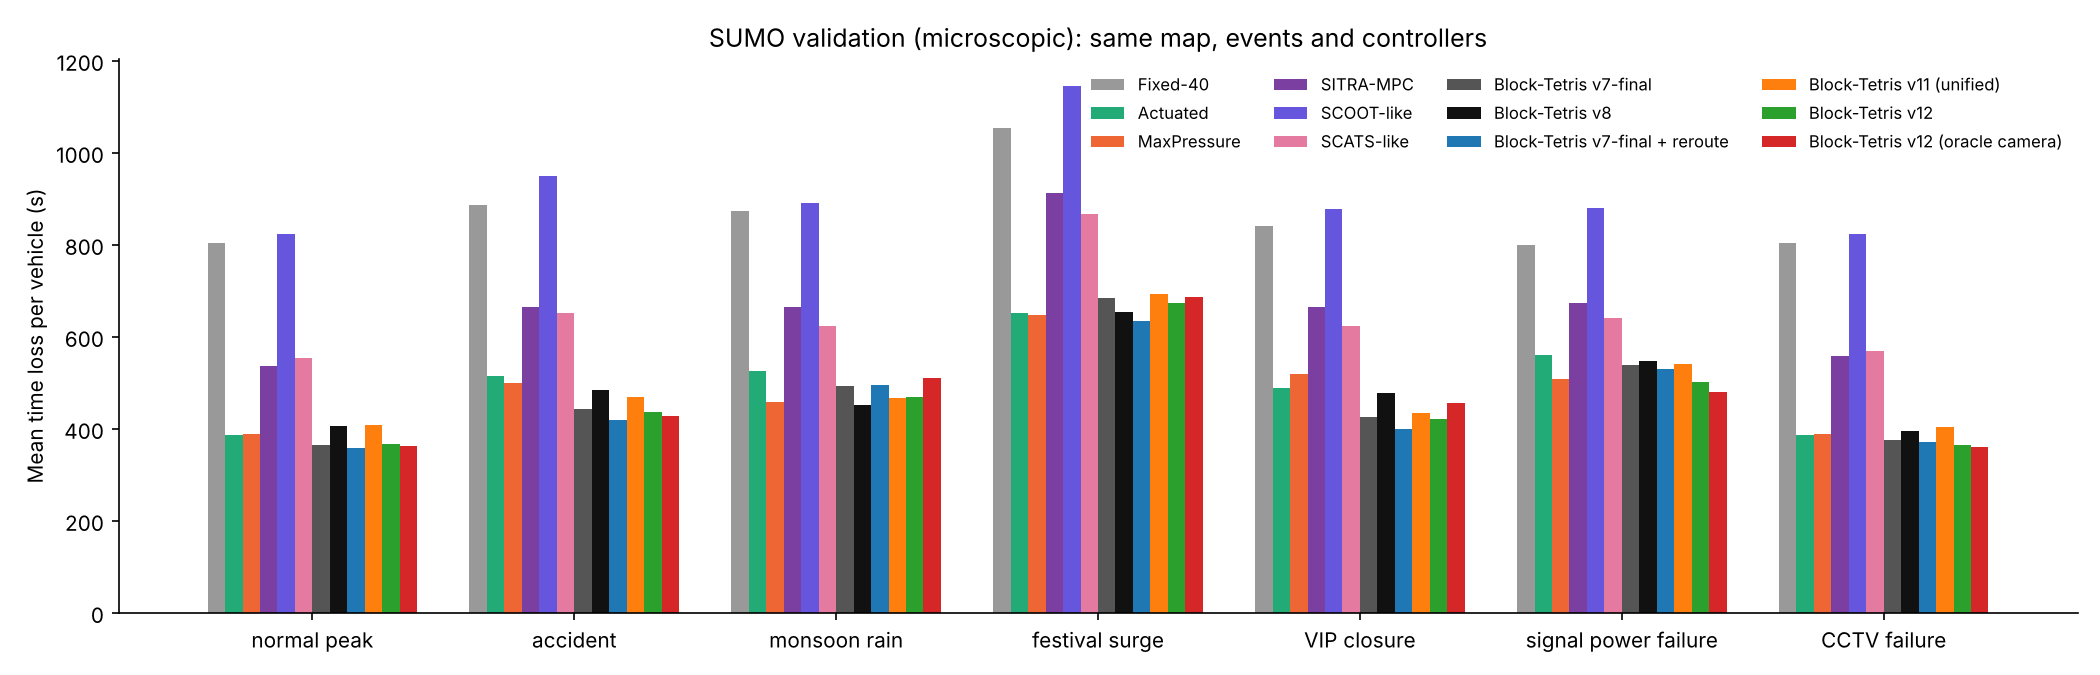
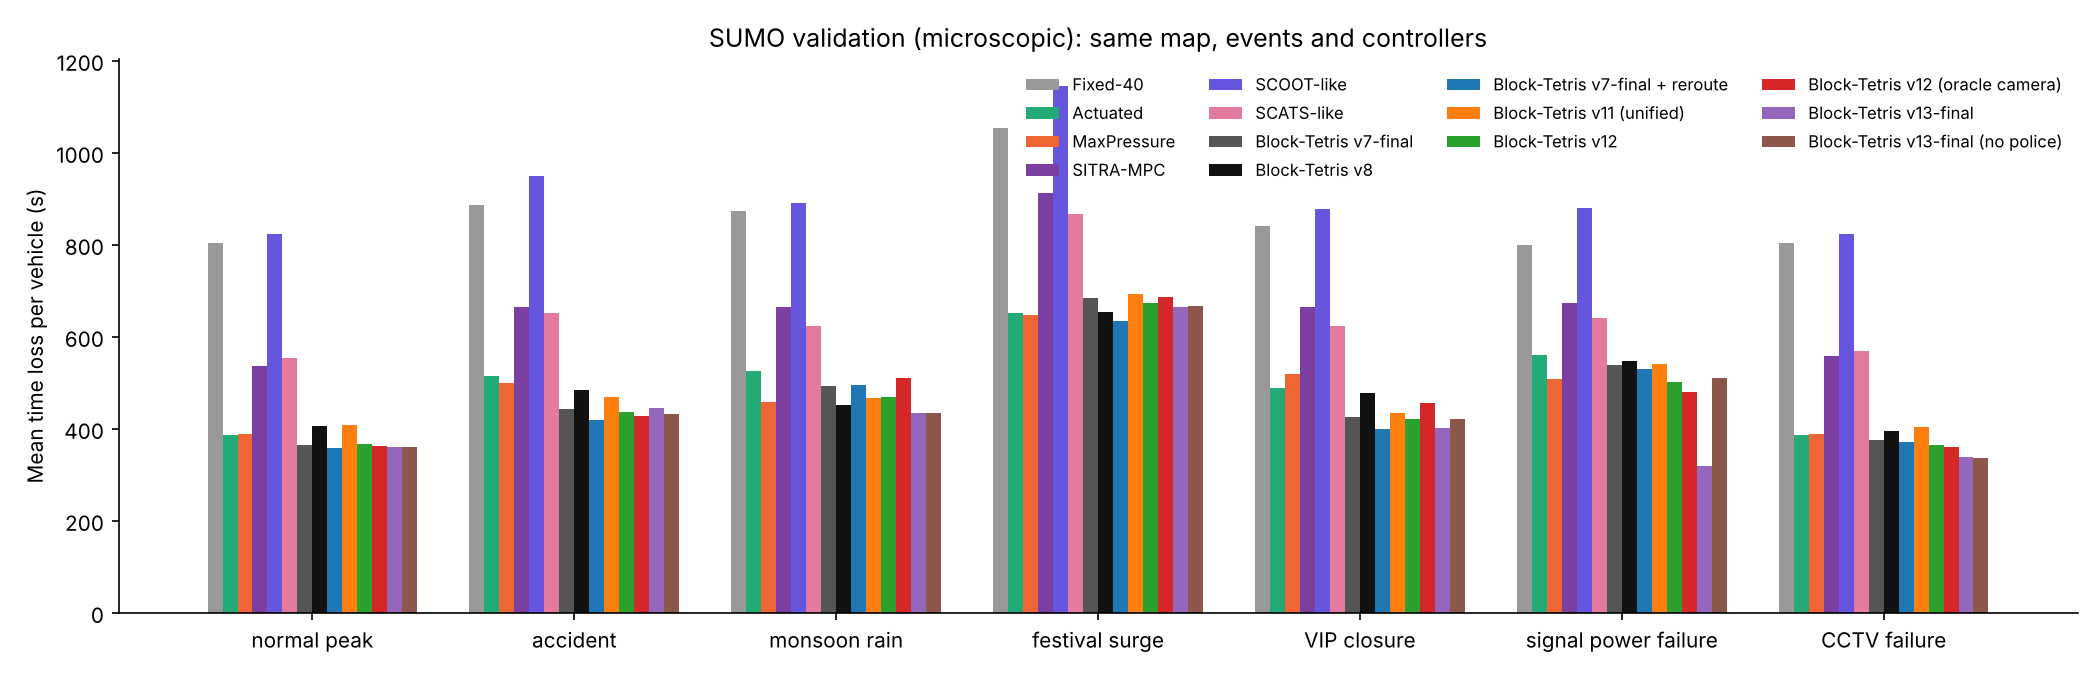
docs(blocktetris): final version (v13-final) section with test-seed results; handoff
Claude-Session: https://claude.ai/code/session_015ahpR1vuoNXRvQbyiGSHye

Changed region(s): [[0.0929, 0.0933, 0.9905, 0.9333]]

diff --git a/Results/BlockTetris/BUNDLE/README.md b/Results/BlockTetris/BUNDLE/README.md
@@ -245,3 +245,47 @@ v12 against the existing controllers: −5.1 % vs MaxPressure (16 of 21 runs bet
 | Police interaction | The photo-and-suggestion workflow with officers is design only (owner's note, kept for later). |
 
 **Figures:** `sumo_peelamedu__sumo1_delay_by_event_x0.07.png` and `sumo_peelamedu__sumo1_delay_by_event_x0.1.png`.
+
+---
+
+## FINAL VERSION: Block-Tetris v13-final (SUMO, test seeds 11–13)
+
+**What v13-final integrates (every version kept selectable in code)**
+
+| Version | Feature |
+|---|---|
+| v1–v3 | Block weights and stacks. Rolling re-placement on discharge current. 35 s saturation green. Back-pressure. Relay with hysteresis and soft start. Perimeter metering. Emergency rotation. **Head-of-line attribution: a shared lane's whole stack counts for its lead vehicle's movement.** |
+| v4 | Predictive relay: trips on load + 60 s × rate of rise. |
+| v5, v6 | Robust estimator on realistic 60 m cameras: KCL prediction, Kalman update with χ² gate and Huber weighting, lower bound beyond the view, frozen-camera test. A dead camera falls back to rebuilding from neighbour counts. |
+| v6 | Navigation-app travel time fused into the rerouting cost. |
+| v7 | Special-mode switching: triggered by degraded discharge, network accumulation, a camera failure or a dark signal. While on, it adds v8 back-pressure. |
+| v7-final | 120 s service guarantee and the police failsafe: 3 officers with a 5-minute arrival; longest-queue-first manual control; they take over dark junctions. |
+| v9 | Pressure rerouting (navigation-app style); green-but-not-moving alert with its decision and justification. |
+| v10 | Signal off in very light traffic. Self-adjusting fixed green. Block area per road from lanes, average fill and incident history. |
+| v12b / v13 | Online discharge-time learning per junction. Police alerts only for local blockages, at most one per junction per 10 min. |
+
+**Speed:** one junction decision takes about 0.12 ms, so the whole corridor (31 signals) is decided in about 4 ms per second of traffic.
+
+**Mean time loss per vehicle (s), test seeds 11–13 (21 paired runs per controller)**
+
+| Demand | Fixed-40 | SITRA-MPC | Actuated | MaxPressure | BT v7-final | BT v12 | BT v13-final, no police | **BT v13-final** |
+|---|---|---|---|---|---|---|---|---|
+| 0.07 | 866 | 668 | 502 | 487 | 475 | 462 | 452 | **423** |
+| 0.10 | 1165 | 1026 | 878 | 880 | 839 | 836 | 807 | **785** |
+
+**v13-final against the baselines**
+
+| Comparison | Demand 0.07 | Demand 0.10 |
+|---|---|---|
+| vs MaxPressure | −13.1 % (19 of 21 runs, p < 0.001) | −10.8 % (21 of 21, p < 0.001) |
+| vs Actuated | −15.7 % (19 of 21, p < 0.001) | −10.6 % (21 of 21, p < 0.001) |
+| vs SITRA-MPC | −36.6 % (21 of 21) | −23.5 % (21 of 21) |
+| vs v12 | −8.4 % (18 of 21, p < 0.001) | −6.2 % (19 of 21, p < 0.001) |
+| **Without police**, vs MaxPressure | −7.2 % (18 of 21, p = 0.002) | −8.3 % (21 of 21, p < 0.001) |
+
+- **v13-final is best in every event at both demand levels.** It is about 0.5 % behind v7-final + reroute in the festival surge at demand 0.07; that version uses a perfect camera.
+- **Signal power failure:** 320 s, against 501 s for v12 and 507 s for MaxPressure.
+- **Rain:** 433 s, against 458 s for MaxPressure. This had been a weak point.
+- **Police alerts:** 2.7 per run at demand 0.07 and 7.7 per run at 0.10, down from about 110 in v12.
+- **Estimator queue RMSE:** 6.2 / 7.4 W, against 7.7 / 12.5 W for the raw camera.
+- **Tuning history:** `Results/BlockTetris/sumo_tune/tune_results_v13.json`. Seeds 1–6 were used for tuning; the reported numbers use seeds 11–13 only.

diff --git a/HANDOFF.md b/HANDOFF.md
@@ -34,3 +34,12 @@ Branch pushed: local `bt-results` -> remote `ccr-27f50ecb-k5rs69` (push with
 - **Where to find it:** BUNDLE README section "SUMO VALIDATION".
 - **Next:** full-city SUMO (`sumo/city`, 333 TLS), police-alert rate limiting, rain and surge.
 - The paper is still NOT to be written.
+
+## FINAL version: v13-final (13 Nov)
+- **Code:** `BT_V13F` in `blocktetris/sumo_experiments.py`; it integrates v1–v13 together with v3 HOL.
+- **Results on test seeds 11–13:**
+  - −13 % vs MaxPressure and −16 % vs Actuated at demand 0.07;
+  - −11 % vs both at demand 0.10;
+  - all p < 0.001.
+- **Where to find it:** BUNDLE README section "FINAL VERSION".
+- **Next:** a full-city SUMO check. The paper is to be written together with the owner; do not draft it alone.
